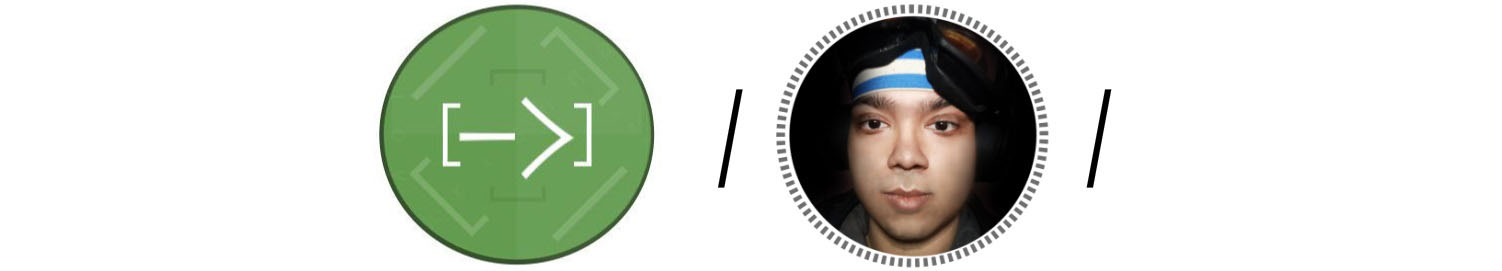
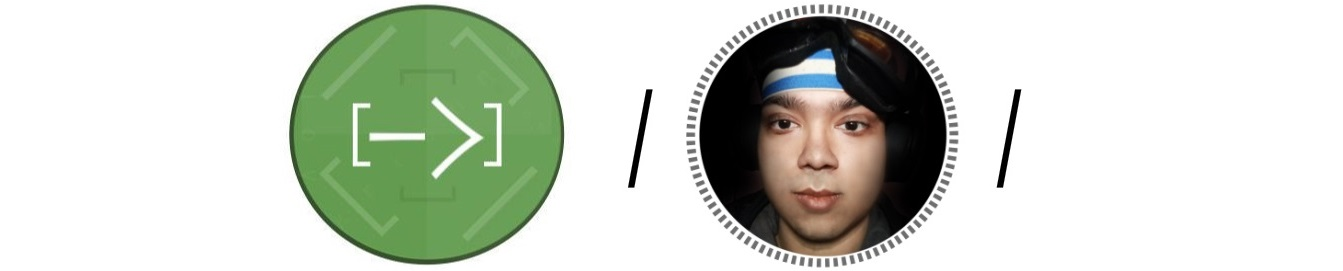
rm valleydate & better pic

Changed region(s): [[0.2137, 0.0, 0.7632, 1.0]]

diff --git a/resume/about/index.html b/resume/about/index.html
@@ -63,15 +63,14 @@
 <div id="content">
 <div class="container">
     <figure>
-    <img src="update_cv_pic.jpg" height="100"/> 
+    <img src="blog_background.jpg" height="100"/> 
 </figure>
 
 <h2 id="about-me">About Me</h2>
 <p>Algebraist focused on software architecture issues with the goal of making javascript fault tolerant.</p>
 <h2 id="2016---2020">2016 - 2020</h2>
-<p>• <strong>npm install remotemon</strong></p>
-<p>• <strong>npm install valleydate</strong></p>
 <p>• <strong>npm install hoplon</strong></p>
+<p>• <strong>npm install remotemon</strong></p>
 <h5 id="career-interactive">Career Interactive</h5>
 <p>[ <em>NOVEMBER 2015 - May 2016,  London,  UK</em> ]</p>
 <p>⚫ material design ⚫ mithril.js 🔴 javascript ⚫ CSS</p>

diff --git a/resume/index.html b/resume/index.html
@@ -65,15 +65,14 @@
 <div id="content">
 <div class="container">
     <figure>
-    <img src="update_cv_pic.jpg" height="100"/> 
+    <img src="blog_background.jpg" height="100"/> 
 </figure>
 
 <h2 id="about-me">About Me</h2>
 <p>Algebraist focused on software architecture issues with the goal of making javascript fault tolerant.</p>
 <h2 id="2016---2020">2016 - 2020</h2>
-<p>• <strong>npm install remotemon</strong></p>
-<p>• <strong>npm install valleydate</strong></p>
 <p>• <strong>npm install hoplon</strong></p>
+<p>• <strong>npm install remotemon</strong></p>
 <h5 id="career-interactive">Career Interactive</h5>
 <p>[ <em>NOVEMBER 2015 - May 2016,  London,  UK</em> ]</p>
 <p>⚫ material design ⚫ mithril.js 🔴 javascript ⚫ CSS</p>
